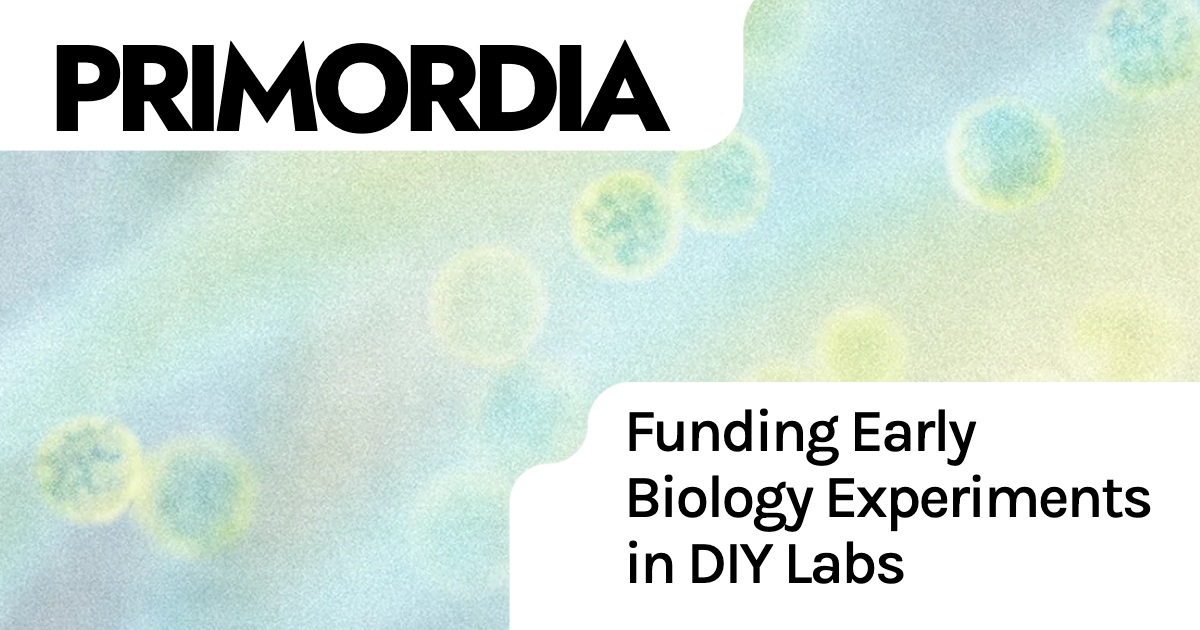
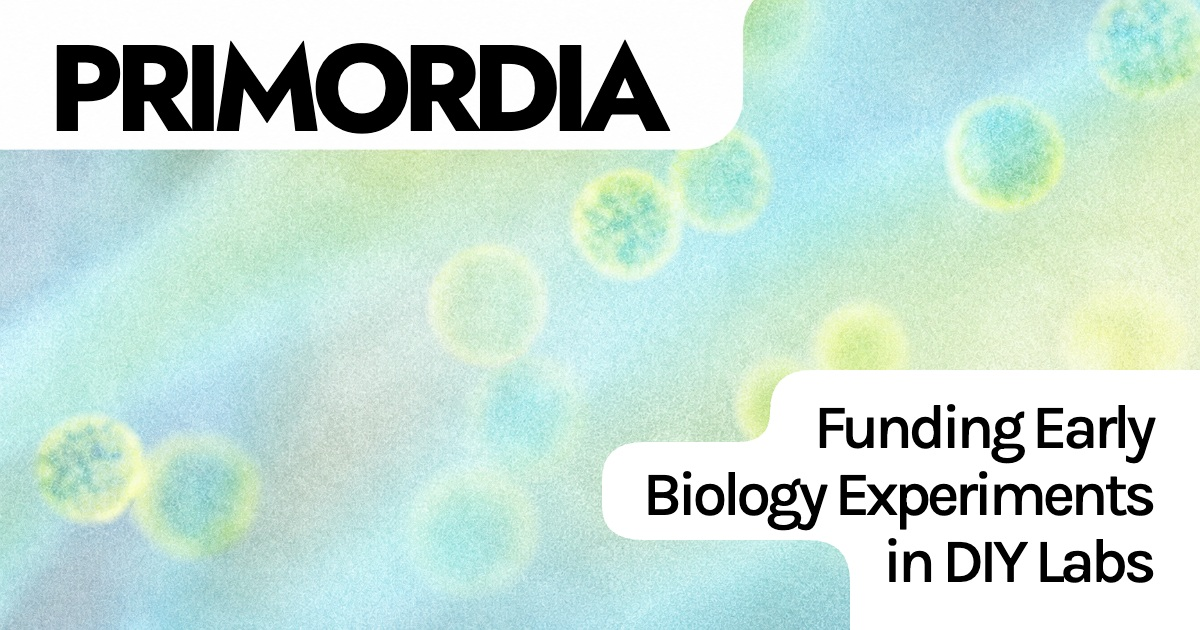
Shape social artwork cutout around the right-aligned headline

diff --git a/tools/social-cards.html b/tools/social-cards.html
@@ -9,24 +9,31 @@
     html, body { margin: 0; width: 100%; height: 100%; background: white; }
     .card { position: relative; width: 1200px; height: 630px; overflow: hidden; color: black; background: white; }
     .art { position: absolute; width: 1350px; height: auto; left: -85px; top: -20px; }
+    .wide .art, .x .art { width: 1200px; height: 630px; left: 0; top: 0; }
+    .cutout { position: absolute; inset: 0; width: 1200px; height: 630px; }
+    .square .cutout { display: none; }
     h1, h2 { position: absolute; margin: 0; }
     /* Preserve the wordmark; give small-format headline lettering more air. */
     h1 { left: 48px; top: 28px; font: 700 122px/1 Jost, sans-serif; letter-spacing: -.08em; white-space: nowrap; }
-    h2 { left: 624px; right: 40px; top: 398px; font: 500 60px/1.1 Karla, sans-serif; letter-spacing: -.04em; text-align: left; }
+    h2 { right: 48px; top: 395px; font: 500 62px/1.08 Karla, sans-serif; letter-spacing: -.07em; text-align: right; }
     h2 span { display: block; white-space: nowrap; }
     .square { height: 1200px; }
     .square .art { width: 1280px; left: -40px; top: -180px; }
     .square h1 { left: 56px; top: 76px; font-size: 120px; }
-    .square h2 { left: 308px; right: 56px; top: 604px; font-size: 112px; line-height: 1.06; }
+    .square h2 { left: 308px; right: 56px; top: 604px; font-size: 112px; line-height: 1.06; letter-spacing: -.04em; text-align: left; }
     .x { height: 600px; }
-    .x .art { top: -35px; }
+    .x .art { top: -15px; }
+    .x .cutout { top: -20px; }
     .x h1 { top: 20px; font-size: 116px; }
-    .x h2 { top: 378px; font-size: 58px; }
+    .x h2 { top: 375px; font-size: 60px; }
   </style>
 </head>
 <body>
   <main class="card" aria-label="Primordia. Funding Early Biology Experiments in DIY Labs">
-    <img class="art" src="../images/primordia_hero_shape.webp" alt="">
+    <img class="art" src="social-background.png" alt="">
+    <svg class="cutout" viewBox="0 0 1200 630" aria-hidden="true">
+      <path fill="white" d="M1200 370 H812 Q770 370 770 412 Q770 442 738 442 H644 Q602 442 602 480 V506 Q602 540 644 540 H808 Q850 540 850 582 V630 H1200 Z"/>
+    </svg>
     <h1>PRIMORDIA</h1>
     <h2><span>Funding Early</span><span>Biology Experiments</span><span>in DIY Labs</span></h2>
   </main>
